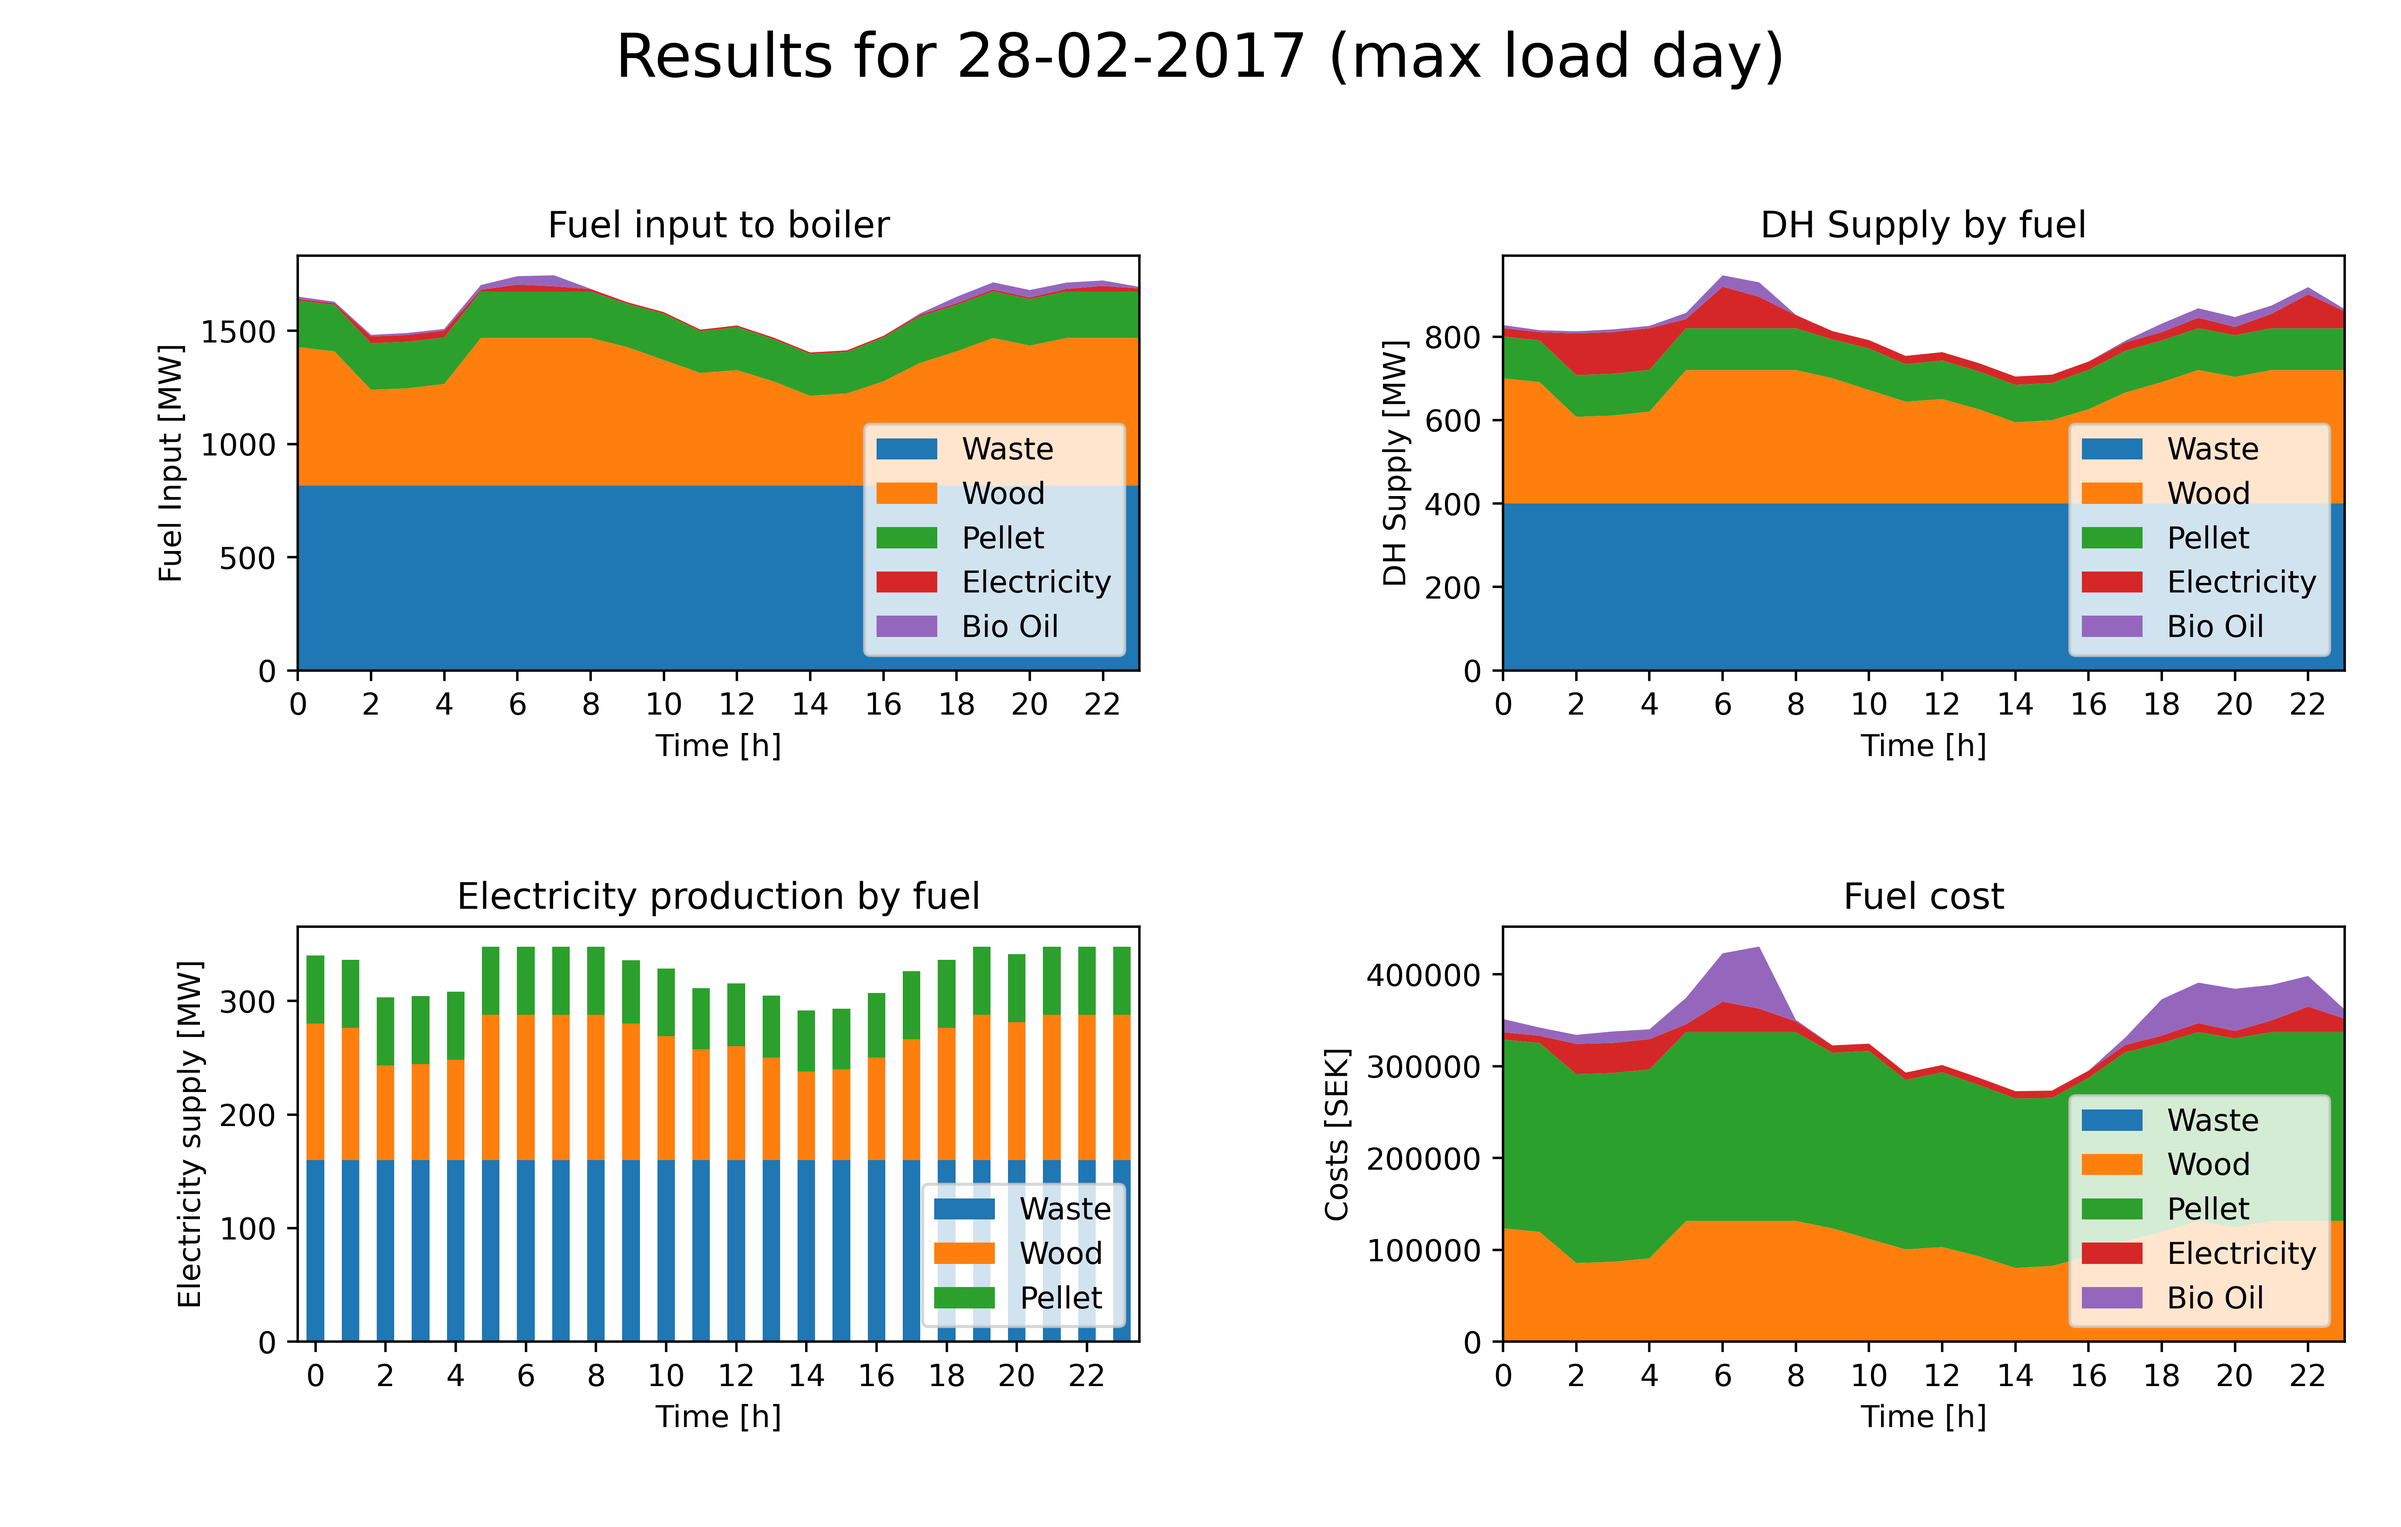
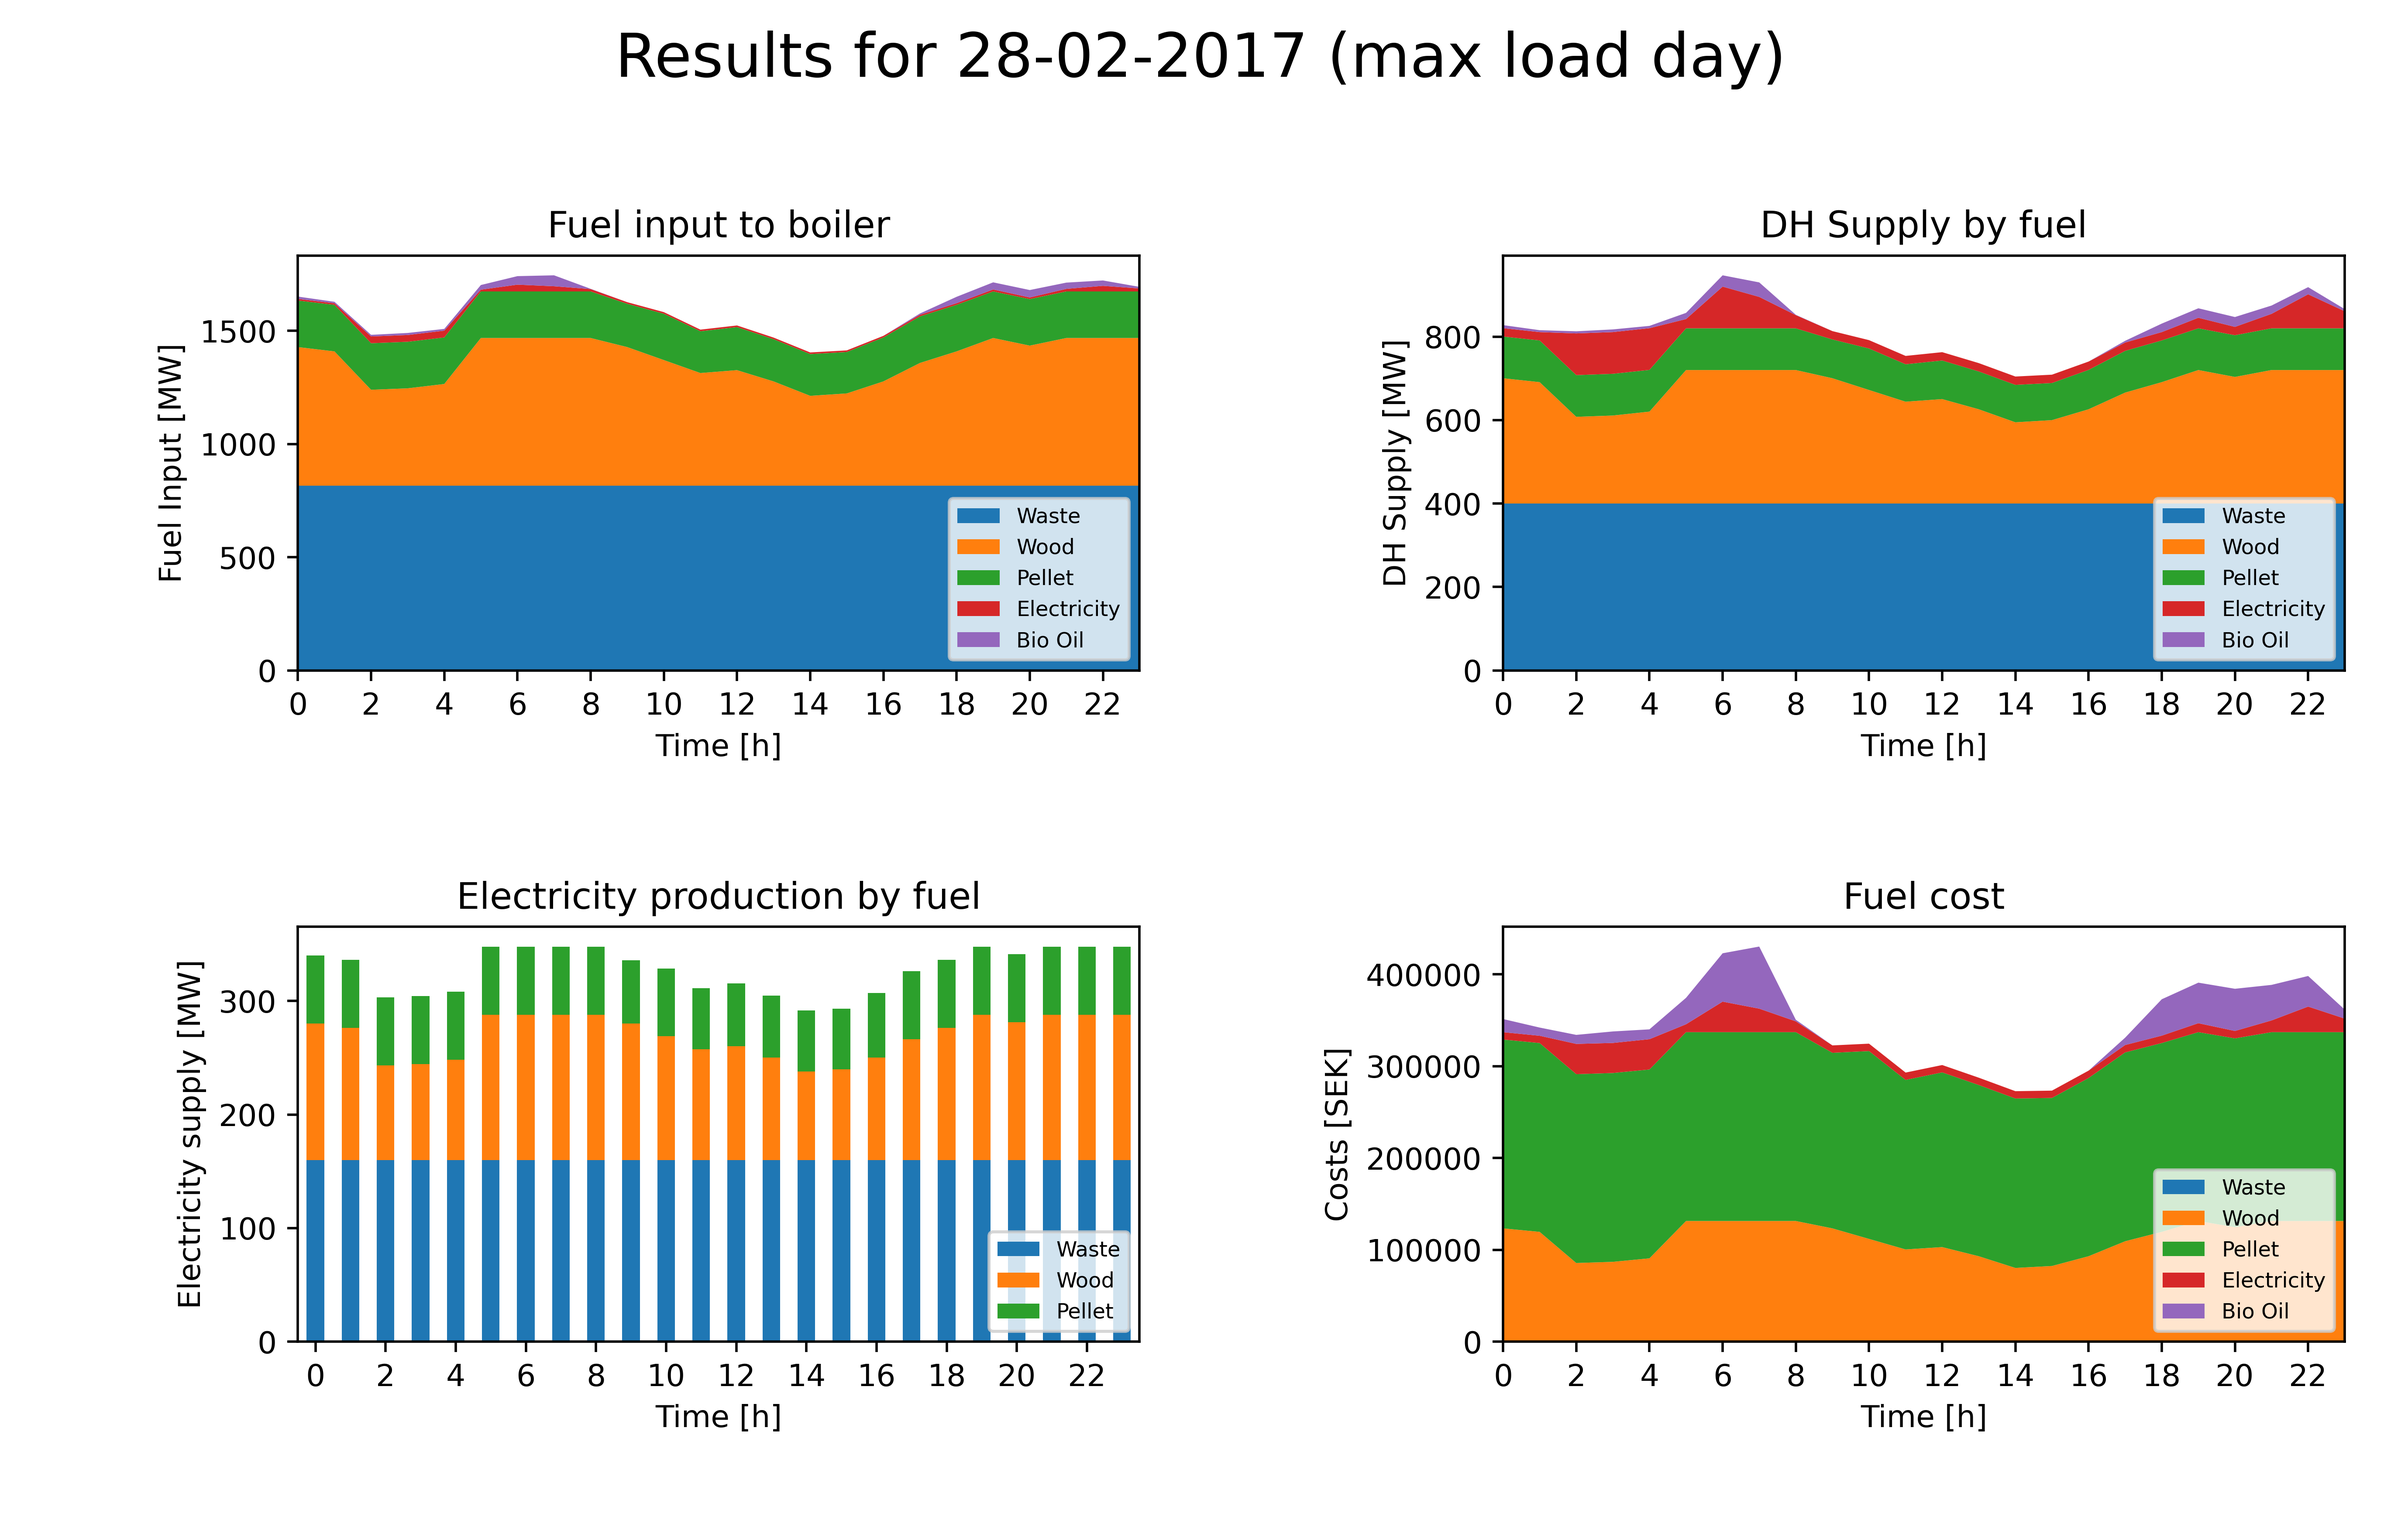
Change file structure, add post_process script

diff --git a/PRO2/plot_results.py b/PRO2/plot_results.py
@@ -167,6 +167,7 @@ def plot_fuel_cost(df, axes):
 
 def create_subplots(df, day_label, save, show):
     fig, axes = plt.subplots(2, 2)
+    plt.rc('legend', fontsize="x-small")
     axes = plot_fuel_input_to_boiler(df, axes)
     axes = plot_dh_by_fuel(df, axes)
     axes = plot_electricity_production_by_fuel(df, axes)
@@ -175,7 +176,6 @@ def create_subplots(df, day_label, save, show):
     # lines, labels = [sum(lol, []) for lol in zip(*lines_labels)]
     # fig.legend(lines[0:5], labels[0:5])
     fig.suptitle(f"Results for {df[df.columns[0]].iloc[0][0:10]} ("+day_label+")", fontsize=20)
-    # plt.rc('legend', fontsize="x-small")
     plt.tight_layout()
     if save:
         fig.set_size_inches((11,7), forward=False)
@@ -183,10 +183,8 @@ def create_subplots(df, day_label, save, show):
     if show:
         plt.show()
 
-if __name__ == "__main__":
-    show = False
-    save = True
-    df = pd.read_csv("bofit_results/results.csv")
+def plot(df, show=False, save=False):
+    # df = pd.read_csv("bofit_results/results.csv")
     load_df = df["Thermal_Output_A1[Dim 1][MW]"] + df["Thermal_Output_A2[Dim 1][MW]"]
     df["Load"] = load_df
     prices_df = pd.read_csv("electricity_prices.csv", decimal=",", sep=";", index_col=0)

diff --git a/PRO2/merge_csv.py b/PRO2/merge_csv.py
@@ -1,19 +1,21 @@
 import pandas as pd
 import os
 
-if __name__ == "__main__":
+def merge(save=True):
     folder = input("Enter the path to the folder that contains the results as .csv-files: ")
     csv_folder_path = os.path.join(os.path.dirname(__file__),folder)
     for i, file in enumerate(os.listdir(csv_folder_path)):
-        print(file)
         if file == ".DS_Store":
             continue
         new_df = pd.read_csv(os.path.join(csv_folder_path,file))
-        print(new_df.shape)
         if i == 0:
             df = new_df
             continue
         df = df.join(new_df[new_df.columns[1]])
-        print(df.shape)
-    df.to_csv(os.path.join(folder, "results.csv"), index=False)
-    df.to_excel(os.path.join(folder, "results.csv"), index=False)
+    assert df.shape[1] == 21
+    if save:
+        # df.to_csv(os.path.join(folder, "results.csv"), index=False)
+        # df.to_excel(os.path.join(folder, "results.csv"), index=False)
+        df.to_csv("results.csv", index=False)
+        df.to_excel("results.csv", index=False)
+    return df

diff --git a/PRO2/post_process.py b/PRO2/post_process.py
@@ -1,0 +1,6 @@
+import merge_csv as merge
+import plot_results as plot
+
+if __name__ == "__main__":
+    df = merge.merge(save=False)
+    plot.plot(df, show=False,save=True)
